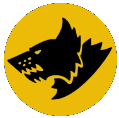
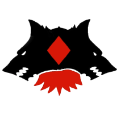
Cycle emblems every five minutes

diff --git a/src/c/main.c b/src/c/main.c
@@ -1,8 +1,9 @@
 #include <pebble.h>
 
-/* Version: 2026-06-10 */
+/* Version: 2026-06-12 */
 
 static const int16_t s_emblem_y_offset = 2;
+static const size_t EMBLEM_COUNT = 12;
 static char s_temperature_text[8] = "--°";
 static const uint32_t KEY_TEMPERATURE = 0;
 static const uint32_t KEY_WEATHER_REQUEST = 1;
@@ -10,10 +11,7 @@ static const uint32_t PERSIST_KEY_TEMPERATURE_TEXT = 1;
 
 static Window *s_main_window;
 static Layer *s_canvas_layer;
-static GBitmap *s_center_emblem_2;
-static GBitmap *s_center_emblem_3;
-static bool s_manual_emblem_override = false;
-static bool s_manual_use_emblem_3 = false;
+static GBitmap *s_center_emblems[12];
 
 static bool is_placeholder_temperature(const char *value) {
   return strcmp(value, "--°") == 0;
@@ -63,11 +61,8 @@ static GColor color_text(void) {
 }
 
 static GBitmap *active_emblem_for_time(const struct tm *tick_time) {
-  if (s_manual_emblem_override) {
-    return s_manual_use_emblem_3 ? s_center_emblem_3 : s_center_emblem_2;
-  }
-
-  return (tick_time->tm_hour % 2 == 0) ? s_center_emblem_2 : s_center_emblem_3;
+  const int index = (tick_time->tm_min / 5) % EMBLEM_COUNT;
+  return s_center_emblems[index];
 }
 
 static void draw_center_emblem(GContext *ctx, GPoint center, const struct tm *tick_time) {
@@ -134,44 +129,48 @@ static void tick_handler(struct tm *tick_time, TimeUnits units_changed) {
   layer_mark_dirty(s_canvas_layer);
 }
 
-static void toggle_manual_emblem(void) {
-  time_t now = time(NULL);
-  struct tm *tick_time = localtime(&now);
-  GBitmap *auto_emblem = active_emblem_for_time(tick_time);
-
-  s_manual_emblem_override = true;
-  s_manual_use_emblem_3 = (auto_emblem == s_center_emblem_2);
-  request_temperature_update();
-  if (s_canvas_layer) {
-    layer_mark_dirty(s_canvas_layer);
+static GBitmap *load_emblem_resource(size_t index) {
+  switch (index) {
+    case 0: return gbitmap_create_with_resource(RESOURCE_ID_CENTER_EMBLEM0);
+    case 1: return gbitmap_create_with_resource(RESOURCE_ID_CENTER_EMBLEM1);
+    case 2: return gbitmap_create_with_resource(RESOURCE_ID_CENTER_EMBLEM2);
+    case 3: return gbitmap_create_with_resource(RESOURCE_ID_CENTER_EMBLEM3);
+    case 4: return gbitmap_create_with_resource(RESOURCE_ID_CENTER_EMBLEM4);
+    case 5: return gbitmap_create_with_resource(RESOURCE_ID_CENTER_EMBLEM5);
+    case 6: return gbitmap_create_with_resource(RESOURCE_ID_CENTER_EMBLEM6);
+    case 7: return gbitmap_create_with_resource(RESOURCE_ID_CENTER_EMBLEM7);
+    case 8: return gbitmap_create_with_resource(RESOURCE_ID_CENTER_EMBLEM8);
+    case 9: return gbitmap_create_with_resource(RESOURCE_ID_CENTER_EMBLEM9);
+    case 10: return gbitmap_create_with_resource(RESOURCE_ID_CENTER_EMBLEM10);
+    case 11: return gbitmap_create_with_resource(RESOURCE_ID_CENTER_EMBLEM11);
   }
-}
 
-static void back_double_click_handler(ClickRecognizerRef recognizer, void *context) {
-  toggle_manual_emblem();
-}
-
-static void click_config_provider(void *context) {
-  window_multi_click_subscribe(BUTTON_ID_BACK, 2, 2, 300, false, back_double_click_handler);
+  return NULL;
 }
 
 static void main_window_load(Window *window) {
   Layer *window_layer = window_get_root_layer(window);
   const GRect bounds = layer_get_bounds(window_layer);
+  size_t i;
 
   window_set_background_color(window, color_bg());
 
-  s_center_emblem_2 = gbitmap_create_with_resource(RESOURCE_ID_CENTER_EMBLEM2);
-  s_center_emblem_3 = gbitmap_create_with_resource(RESOURCE_ID_CENTER_EMBLEM3);
+  for (i = 0; i < EMBLEM_COUNT; i += 1) {
+    s_center_emblems[i] = load_emblem_resource(i);
+  }
+
   s_canvas_layer = layer_create(bounds);
   layer_set_update_proc(s_canvas_layer, canvas_update_proc);
   layer_add_child(window_layer, s_canvas_layer);
 }
 
 static void main_window_unload(Window *window) {
+  size_t i;
+
   layer_destroy(s_canvas_layer);
-  gbitmap_destroy(s_center_emblem_2);
-  gbitmap_destroy(s_center_emblem_3);
+  for (i = 0; i < EMBLEM_COUNT; i += 1) {
+    gbitmap_destroy(s_center_emblems[i]);
+  }
 }
 
 static void init(void) {
@@ -183,7 +182,6 @@ static void init(void) {
   app_message_open(128, 128);
 
   s_main_window = window_create();
-  window_set_click_config_provider(s_main_window, click_config_provider);
   window_set_window_handlers(s_main_window, (WindowHandlers) {
     .load = main_window_load,
     .unload = main_window_unload,